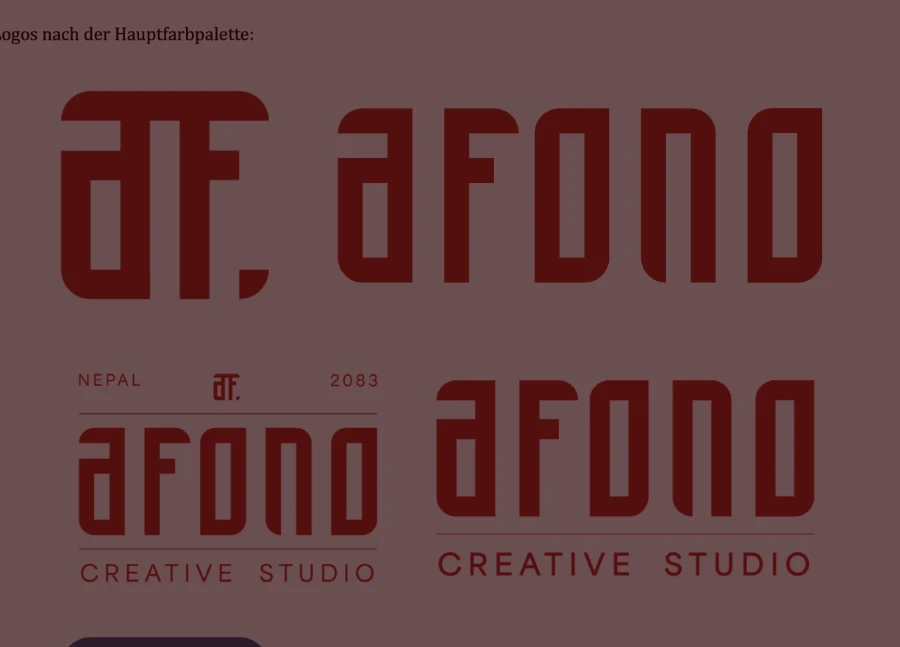
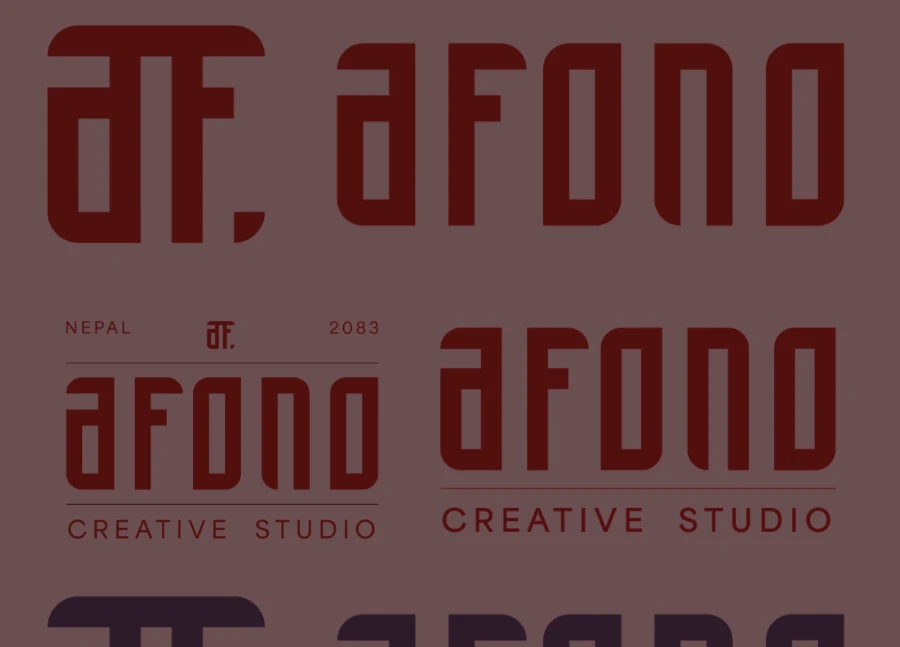
Re-cut five bento tiles, and disprove the premise for two more
No new folders had arrived, so no case-study figure work was possible and
none was invented. What was available is the item the hand-off named: the
homepage was the last surface still running entirely on PDF page crops while
four case studies had moved to the owner's own exports.

The hand-off's premise turned out to be wrong, and one grid overlay showed
it. It said to re-cut Surugami's two tiles because Images/Surugami/ "now
holds sharper sources for both". A tile needs one element at the tile's
aspect and at least its export width — tile-surugami-brand needs 900 x 647 —
and a decile grid over Poster.png (2518 x 1824) gives the real numbers: the
stairwell photo is 944 x 465, the corridor poster 491 x 684, the outdoor
banner 964 x 274. All too small.

A supplied board is a composite. Its total resolution is high, but each
element inside it is 400-1000px, and a PDF page rendered at scale 4-6 gives
more pixels per element. Re-cutting would have upscaled — a visible downgrade
done in the name of an upgrade. A supplied export beats a page render for a
figure and often loses to it for a tile: a figure shows the whole board, a
tile shows one thing inside it. The same test ruled out tile-afono-graphic.

Five tiles do have sources that fill them at full size and were re-cut: both
WikiMind, AFONO brand, and both Sync FM. All pass image-treat.mjs's bento
contrast ceiling, which is what keeps the white tile text legible.
[…]

diff --git a/src/lib/dictionaries/de.ts b/src/lib/dictionaries/de.ts
@@ -85,7 +85,7 @@ const de: Dictionary = {
     bento: [
       { slug: "wikimind", category: "Brand & UI/UX", title: "WikiMind", gridArea: "1 / 1 / 2 / 7", fontSize: "clamp(26px,3.6vw,60px)", src: "/images/tile-wikimind-brand.webp", alt: "Die WikiMind-Wortmarke in ihren zwei Farbvarianten" },
       { slug: "afono", category: "Marke & E-Commerce", title: "AFONO", gridArea: "1 / 7 / 2 / 11", fontSize: "clamp(22px,2.8vw,44px)", src: "/images/tile-afono-brand.webp", alt: "AFONO-Logovarianten im Markenrot" },
-      { slug: "sync-fm", category: "Interaction Design", title: "Sync FM", gridArea: "2 / 1 / 3 / 5", fontSize: "clamp(20px,2.3vw,34px)", src: "/images/tile-syncfm-interaction.webp", alt: "Drei Sync-FM-Screens mit Nachrichtenregler und Player" },
+      { slug: "sync-fm", category: "Interaction Design", title: "Sync FM", gridArea: "2 / 1 / 3 / 5", fontSize: "clamp(20px,2.3vw,34px)", src: "/images/tile-syncfm-interaction.webp", alt: "Zwei Sync-FM-Screens: der Nachrichtenregler und der erweiterte Player" },
       { slug: "surugami", category: "Marke & Print", title: "Surugami", gridArea: "3 / 1 / 4 / 5", fontSize: "clamp(20px,2.3vw,34px)", src: "/images/tile-surugami-brand.webp", alt: "Ein gefalteter Papierkranich von einem Surugami-Plakat" },
       { slug: "qis-portal", category: "UX-Research", title: "QIS Portal", gridArea: "2 / 5 / 4 / 11", fontSize: "clamp(26px,3.4vw,56px)", src: "/images/tile-qis-research.webp", alt: "Balkendiagramme aus der Nutzerbefragung zum QIS-Portal" },
       { slug: "barrier-free-kitchen", category: "Inklusives Design", title: "Kitchen", gridArea: "4 / 1 / 6 / 6", fontSize: "clamp(24px,3.1vw,50px)", src: "/images/tile-kitchen-inclusive.webp", alt: "Eine Rollstuhlfahrerin an der höhenverstellbaren Küchenarbeitsplatte" },

diff --git a/src/lib/dictionaries/en.ts b/src/lib/dictionaries/en.ts
@@ -85,7 +85,7 @@ const en: Dictionary = {
     bento: [
       { slug: "wikimind", category: "Brand & UI/UX", title: "WikiMind", gridArea: "1 / 1 / 2 / 7", fontSize: "clamp(26px,3.6vw,60px)", src: "/images/tile-wikimind-brand.webp", alt: "The WikiMind wordmark in its two colourways" },
       { slug: "afono", category: "Brand & E-commerce", title: "AFONO", gridArea: "1 / 7 / 2 / 11", fontSize: "clamp(22px,2.8vw,44px)", src: "/images/tile-afono-brand.webp", alt: "AFONO logo lockups in the brand's red" },
-      { slug: "sync-fm", category: "Interaction Design", title: "Sync FM", gridArea: "2 / 1 / 3 / 5", fontSize: "clamp(20px,2.3vw,34px)", src: "/images/tile-syncfm-interaction.webp", alt: "Three Sync FM screens showing the news dial and the player" },
+      { slug: "sync-fm", category: "Interaction Design", title: "Sync FM", gridArea: "2 / 1 / 3 / 5", fontSize: "clamp(20px,2.3vw,34px)", src: "/images/tile-syncfm-interaction.webp", alt: "Two Sync FM screens: the news dial and the expanded player" },
       { slug: "surugami", category: "Brand & Print", title: "Surugami", gridArea: "3 / 1 / 4 / 5", fontSize: "clamp(20px,2.3vw,34px)", src: "/images/tile-surugami-brand.webp", alt: "A folded paper crane from a Surugami poster" },
       { slug: "qis-portal", category: "UX Research", title: "QIS Portal", gridArea: "2 / 5 / 4 / 11", fontSize: "clamp(26px,3.4vw,56px)", src: "/images/tile-qis-research.webp", alt: "Bar charts from the QIS Portal user survey" },
       { slug: "barrier-free-kitchen", category: "Inclusive Design", title: "Kitchen", gridArea: "4 / 1 / 6 / 6", fontSize: "clamp(24px,3.1vw,50px)", src: "/images/tile-kitchen-inclusive.webp", alt: "A wheelchair user at the height-adjustable kitchen counter" },

diff --git a/docs/previous_session.md b/docs/previous_session.md
@@ -1,66 +1,58 @@
 # Previous Session
 
-**SESSION-027** — 2026-09-04. Full record: `docs/sessions/session_027.md`.
+**SESSION-028** — 2026-09-08. Full record: `docs/sessions/session_028.md`.
 
 ## What it did
 
-The owner said the figure sizes were bugging them and asked for consistency, plus figures placed
-after the paragraphs they belong to.
+No new folders had arrived, so no case-study figure work was possible and none was invented. What
+was available is the one item the hand-off named: **the homepage was the last surface still
+running entirely on PDF page crops**, while four case studies had moved to the owner's own
+exports.
 
-**`DECISION-019`: figures are now sized by height.** Every figure renders 640px tall unless the
-column binds first, and a row is justified — one height, widths proportional to each figure's own
-aspect. **`SUGGESTION-017` is superseded.** AFONO's 22 figures moved out of end-of-section
-galleries and into the prose.
+**Five bento tiles were re-cut** — both WikiMind, AFONO brand, both Sync FM. All five pass
+`image-treat.mjs`'s contrast ceiling, which is what keeps the white tile text legible.
 
 ## The thing worth carrying forward
 
-**The fix that was asked for and the fix that was needed were different, and measuring separated
-them in a minute.**
+**The hand-off's own premise was wrong, and one grid overlay showed it.**
 
-The obvious reading was "lone figures render at too many bespoke widths". A script that walked
-every case study and reproduced `SectionMedia`'s grouping said otherwise:
+It said to re-cut Surugami's two tiles because `Images/Surugami/` "now holds sharper sources for
+both". It does not. A tile needs one element **at the tile's aspect and at least its export
+width** — `tile-surugami-brand` needs 900 × 647. A decile grid over `Poster.png` (2518 × 1824)
+gives the real numbers:
 
-```
-distinct rendered widths today: 5
-307, 470, 502, 532, 960
-2 figures at 2 different bespoke widths
-```
+| Element | Pixels |
+| --- | --- |
+| Stairwell photo | 944 × 465 — too short |
+| Corridor poster | 491 × 684 — too narrow |
+| Outdoor banner | 964 × 274 — too short |
 
-Widths were nearly uniform already. **Heights were the problem** — a row gives each figure an
-equal share of the column, so heights come out at whatever the aspects make them. AFONO's
-collection row: 819px, 563px and 230px tall, three captions at three levels.
+**A supplied board is a composite.** Its total resolution is high, but each element inside it is
+only 400–1000px, and a PDF page rendered at scale 4–6 gives *more* pixels per element. Re-cutting
+would have upscaled — a visible downgrade done in the name of an upgrade.
 
-Tidying nine bespoke widths would have been real work that fixed nothing visible.
+**A supplied export beats a page render for a figure, and often loses to it for a tile.** A figure
+shows the whole board; a tile shows one thing inside it. The same test ruled out
+`tile-afono-graphic`. Recorded in `image_sources.md` so nobody re-tests it.
 
-## How the constraint shaped the answer
+## What the contrast check does not do
 
-Two rules could not move: **a declared aspect must equal the file's true aspect** (`object-cover`
-makes any mismatch a silent crop) and the column is 960px. So for heights to match, **widths have
-to absorb the difference** — which is the justified-gallery layout, and it falls out of two CSS
-declarations: `flex-grow: <ratio>` on `flex-basis: 0` gives widths proportional to ratios, and
-since each box is `aspect-ratio: <ratio>`, every height in the row is then identical.
+**Two crops passed the contrast check and were still wrong**, and both were found by looking at
+the rendered grid rather than at the numbers. Sync FM's first crop clipped the phones top and
+bottom. AFONO's *second* crop was worse than its first — narrowing `x` to isolate the red block
+clipped the lockups horizontally, because they span the full width of the source. Reverted.
 
-**Wide figures did not change.** Anything 1.5 or wider fits its full 960px inside 640px of height,
-so the rule turned out uniform rather than special-cased — usually the sign it is the right rule.
-
-## Two things caught by looking rather than by the harness
-
-- **AFONO's collection figures landed before the list that names them** — Himal, City, Mythic,
-  Logo Essentials. Fixed by a rule, not by hand: a `figures` block immediately followed by a
-  `list` block gets the two swapped.
-- **At the 640px breakpoint a three-figure row put the narrowest figure at 140px.** Rows now turn
-  horizontal at 768px, so between 640 and 768 figures stack at 660px instead.
+The check measures luminance in two bands. It has no opinion about composition and was never
+meant to.
 
 ## Verified
 
 Production build: routes 36/36; 196 images across 36 routes at dpr 1, 2 and 3, 0 broken, 0 missing
 `alt`, 0 failed requests, counts identical at all densities; axe 0 violations; 0 overflow; reduced
-motion static; `tsc` clean; lint 0 errors; `image-manifest.mjs` exits 0 and AFONO still reports 23
-slots with 1 empty after every figure moved. Figure widths read off the built page at 390 / 700 /
-1024 / 1440; heights read off all four figure-dense case studies.
+motion static; `tsc` clean; lint 0 errors. The bento grid was read at 1440px after every re-cut.
 
 ## What it left for the owner
 
 Nothing new. The kitchen, QIS and playground folders; `ISSUE-031` through `ISSUE-035` and
-`ISSUE-006`. **Nothing pushed — 44 commits ahead of `main` before this one, and the live site
+`ISSUE-006`. **Nothing pushed — 45 commits ahead of `main` before this one, and the live site
 still shows none of it.**

diff --git a/docs/sessions/session_028.md b/docs/sessions/session_028.md
@@ -1,0 +1,89 @@
+# SESSION-028 — Five bento tiles re-cut, and one premise disproved
+
+Date: 2026-09-08
+Branch: `milestone-003-content-model`
+Asked for: `docs/next_session.md`.
+
+## No new folders
+
+`Images/` still holds only `wikimind`, `Surugami`, `SyncFM` and `Afono`. The barrier-free
+kitchen, QIS Portal and the playground have not arrived, so **no case-study figure work was
+possible** and none was invented — the hand-off is explicit about that.
+
+What it also named was the one thing that could be done without anyone: **re-cut the bento
+tiles**, since the homepage was the last surface still running entirely on PDF page crops while
+four case studies had moved to the owner's own exports.
+
+## The premise the hand-off carried was wrong, and measuring showed it
+
+`next_session.md` said to re-cut **the two Surugami tiles**, because `Images/Surugami/` "now holds
+sharper sources for both". It does not, and the reason generalises.
+
+A bento tile needs a crop **at the tile's aspect and at least as wide as its export**:
+`tile-surugami-brand` is 448/322 at 900px, so it needs a source region of at least 900 × 647.
+A decile grid over `Poster.png` (2518 × 1824) measures what is actually available:
+
+| Element | Region | Pixels |
+| --- | --- | --- |
+| Stairwell photo, three posters | x 0.50–0.875, y 0.03–0.285 | 944 × 465 — **too short** |
+| Corridor poster with the crane | x 0.245–0.44, y 0.28–0.655 | 491 × 684 — **too narrow** |
+| Outdoor banner | x 0.495–0.878, y 0.695–0.845 | 964 × 274 — **too short** |
+
+**A supplied board is a composite.** Its total resolution is high, but each element inside it is
+only 400–1000px, and a tile needs one element at full size. A PDF page rendered at scale 4–6
+gives *more* pixels per element than a board that packs eight of them into 2518px.
+
+So re-cutting Surugami's tiles from the supplied folder would have **upscaled** them — a visible
+downgrade, done in the name of an upgrade. The same test ruled out `tile-afono-graphic`:
+`print3.png` is three thin vertical marks on white, and any crop at the tile's 224/322 is mostly
+empty page.
+
+Worth keeping as a rule: **a supplied export beats a page render for a figure, and often loses to
+it for a tile.** A figure shows the whole board; a tile shows one thing inside it.
+
+## What was re-cut — five tiles
+
+Five sources do fill their tile at full size, and all five were measured before cutting:
+
+| Tile | Source | Crop | Contrast (ceiling 128 / 138) |
+| --- | --- | --- | --- |
+| `tile-wikimind-brand` | `LogoVarients.png` | `[0, 0, 0.600, 1.0]` | top 88, middle 60 |
+| `tile-wikimind-web` | `Visualle Baukasten.png` | `[0, 0, 1.0, 0.890]` | top 80, middle 77 |
+| `tile-afono-brand` | `LogoVariationsColor.png` | `[0, 0, 1.0, 0.571]` | top 65, middle 76 |
+| `tile-syncfm-interaction` | `Screens.png` | `[0.0, 0.045, 0.525, 0.237]` | top 88, middle 130 |
+| `tile-syncfm-mobile` | `Screens.png` | `[0.50, 0.045, 0.39, 0.235]` | top 62, middle 64 |
+
+Every one passes `image-treat.mjs`'s bento contrast check on the first or second attempt, which
+is what keeps the white tile text legible (`SESSION-014` measured that ceiling).
+
+**Two crops were wrong and were caught by looking at the rendered grid, not the numbers.** Sync
+FM's first crop clipped the phones top and bottom; widening the window to the row's full height
+fixed it. AFONO's *second* crop was worse than its first — narrowing `x` to isolate the red block
+clipped the lockups horizontally, because the lockups span the full width of the source. Reverted.
+A crop can pass the contrast check and still be badly composed; the check does not look at
+composition and was never meant to.
+
+`tile-syncfm-interaction`'s alt now says **two** screens rather than three, in both locales,
+because that is what the new crop shows.
+
+## Six tiles still come from PDFs
+
+`tile-afono-graphic`, both Surugami tiles, both QIS tiles and `tile-kitchen-inclusive`. Two of
+those are ruled out above; three wait on folders that have not arrived. Recorded in
+`image_sources.md` so the next session does not re-test what this one already measured.
+
+## Verified against the production build
+
+- routes 36/36, four negative paths correctly 404
+- 196 images across 36 routes at dpr 1, 2 and 3 — 0 broken, 0 missing `alt`, 0 failed requests,
+  per-route counts identical at all three densities
+- axe 0 violations, 0 overflow, 0 stuck reveals; reduced motion static and visible
+- `tsc` clean; lint 0 errors, the same 3 pre-existing warnings
+- The bento grid read at 1440px after every re-cut, which is how both bad crops were found
+
+## Still open
+
+- The kitchen (10 slots), QIS Portal (11) and the playground (39)
+- `ISSUE-035`, `ISSUE-034`, `ISSUE-033`, `ISSUE-032`, `ISSUE-031`, `ISSUE-006`
+- **Nothing pushed.** 45 commits ahead of `main` before this one, and the live site still shows
+  none of it.

diff --git a/docs/next_session.md b/docs/next_session.md
@@ -11,7 +11,7 @@ took the last of the actionable non-image queue with it.
 this project: it is not short of engineering, it is short of two photographs, a poster's name,
 three judgement calls and three folders of images.
 
-Work sits on branch `milestone-003-content-model`, **forty-five commits ahead of `main` and
+Work sits on branch `milestone-003-content-model`, **forty-six commits ahead of `main` and
 unpushed**. **The live site shows none of the last twenty-odd sessions.** That gap is now the
 largest single thing on this list — say so plainly to the owner before proposing anything else. **Check `git` before trusting any status in these files.**
 
@@ -73,11 +73,14 @@ decision only they can make, or work that assumes the repository is pushed.
 
 **Two things could be done without anyone**, if a session genuinely has nothing else:
 
-- **Re-cut the two Surugami bento tiles.** `tile-surugami-brand` and `tile-surugami-poster` are
-  still PDF crops from SESSION-016, and `Images/Surugami/` now holds sharper sources for both.
-  The tiles must pass `image-treat.mjs`'s bento contrast ceiling, which is the fiddly part.
+- ~~**Re-cut the two Surugami bento tiles.**~~ **Tested and ruled out in SESSION-028.** A tile
+  needs one element at the tile's aspect and at least its export width; `Poster.png`'s largest
+  element is 964 × 274 against a requirement of 900 × 647, so re-cutting would upscale. **A
+  supplied board is a composite and holds fewer pixels per element than a page render.** Five
+  other tiles *were* re-cut. Do not re-test this — the measurements are in `image_sources.md`.
 - **CI** (`SUGGESTION-015`) — a workflow running lint and build. It only earns its keep once the
-  branch is pushed, which is the owner's call.
+  branch is pushed, which is the owner's call. **This is now the only remaining item that needs
+  nobody**, and it needs the push first.
 
 Then:
 

diff --git a/docs/reference/image_sources.md b/docs/reference/image_sources.md
@@ -152,7 +152,21 @@ work is fine on a page that says who did what; the case studies already say it.
 
 Value per unit of effort, highest first.
 
-**1. ~~The eleven bento tiles~~** — done, SESSION-016.
+**1. ~~The eleven bento tiles~~** — done, SESSION-016; **five re-cut from the owner's own
+exports in SESSION-028** (both WikiMind, AFONO brand, both Sync FM).
+
+**Six still come from PDF pages, and two of them should stay that way.** A tile needs one element
+at the tile's aspect and at least its export width — `tile-surugami-brand` needs 900 × 647. A
+supplied board is a *composite*: `Poster.png` is 2518px wide but its largest element is 964 × 274,
+so cropping a tile out of it would upscale. `tile-afono-graphic` is ruled out the same way —
+`print3.png` is three thin marks on white and any crop at 224/322 is mostly empty page.
+
+**A supplied export beats a page render for a figure, and often loses to it for a tile.** A figure
+shows the whole board; a tile shows one thing inside it. Measured in SESSION-028 with a decile
+grid — do not re-test.
+
+The remaining four (`tile-qis-research`, `tile-qis-product`, `tile-kitchen-inclusive`, and
+Surugami's two if a non-composite source ever arrives) wait on folders.
 
 **2. ~~The six case-study heroes~~** — done, SESSION-016, along with six prev/next cards that
 turned out to be live rather than dead (`projects[].image`, rendered by `NextProjectNav`).

diff --git a/docs/sessions/index.md b/docs/sessions/index.md
@@ -31,6 +31,7 @@ One document per working session. Chronological; IDs are permanent.
 | SESSION-025 | 2026-09-04 | No images to place: ISSUE-009 (German landmarks axe cannot see) and ISSUE-010 closed, MILESTONE-002 complete, `!important` removed, doc accuracy pass | `session_025.md` |
 | SESSION-026 | 2026-09-04 | AFONO and Sync FM re-shot from supplied folders — 12 PDF crops superseded, 9 new slots, Sync FM's three persona slots merged into the one board that exists; ISSUE-035 | `session_026.md` |
 | SESSION-027 | 2026-09-04 | DECISION-019: figures sized by height and rows justified, superseding SUGGESTION-017; AFONO's 22 figures moved into the prose | `session_027.md` |
+| SESSION-028 | 2026-09-08 | Five bento tiles re-cut from supplied exports; measuring disproved the hand-off's premise that Surugami's two could be — a composite board holds fewer pixels per element than a page render | `session_028.md` |
 
 ## Conventions
 

diff --git a/docs/current_state.md b/docs/current_state.md
@@ -1,6 +1,6 @@
 # Current State
 
-Snapshot: **2026-09-04**, after SESSION-027 (figures sized by height; rows justified).
+Snapshot: **2026-09-08**, after SESSION-028 (five bento tiles re-cut from the owner's own exports).
 
 ## Overall
 
